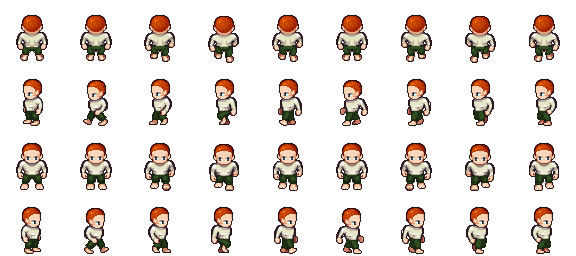
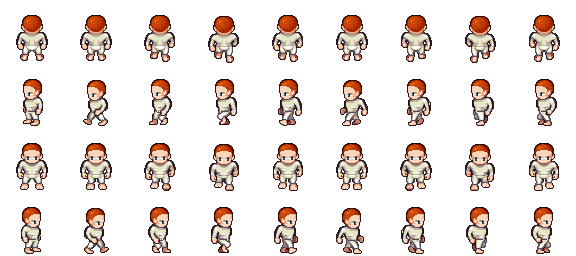
แก้กางเกงตัวละครสีเพี้ยนตอนนั่ง + เติมเครดิตฉบับเต็มของ walls/floors (#21)
ตรวจซ้ำแล้วพบว่า legs/formal/male/sit.png (กางเกงสูท) เป็นคนละปาเลตกับ walk.png/idle.png
ของโฟลเดอร์เดียวกัน (เขียวเข้ม vs น้ำตาลอ่อน — ความไม่สม่ำเสมอที่มีอยู่แล้วในไฟล์ต้นทาง
ของ repo ไม่ใช่บั๊กจาก compositing) ทำให้ตัวละครเปลี่ยนสีกางเกงกะทันหันตอนเข้าโซนกำลัง
ทำงาน (state ที่พบบ่อยที่สุด) เปลี่ยนไปใช้ legs/pants/male แทน ตรวจแล้วว่า walk/idle/sit
สีกากีตรงกันทั้งสามไฟล์ พร้อมอัปเดตตารางเครดิตให้ตรง

เพิ่มภาคผนวกใน CREDITS.md: เนื้อหาเต็มของ CREDITS-walls.txt / CREDITS-floors.txt
(รายชื่อผลงานต้นทาง ~20 รายการต่อไฟล์ที่ทั้งสองแพ็กรวมไว้) เผื่อไว้ตามธรรมเนียมของ
[LPC] Wooden Furniture ที่ผู้ดูแลคนเดียวกันระบุชัดว่า "All information in this file
must be included" แม้ walls/floors จะไม่ได้เขียนประโยคนี้ตรง ๆ ก็ตาม

diff --git a/office/assets/default/CREDITS.md b/office/assets/default/CREDITS.md
@@ -29,7 +29,7 @@
 | Body — teen | `body/bodies/teen/` | bluecarrot16, Evert, TheraHedwig, Benjamin K. Smith (BenCreating), MuffinElZangano, Durrani, Pierre Vigier (pvigier), Eliza Wyatt (ElizaWy), Matthew Krohn (makrohn), Johannes Sjölund (wulax), Stephen Challener (Redshrike) | OGA-BY 3.0 / CC-BY-SA 3.0 / GPL 3.0 |
 | Head — human/male | `head/heads/human/male/` | bluecarrot16, Benjamin K. Smith (BenCreating), Stephen Challener (Redshrike) | OGA-BY 3.0 / CC-BY-SA 3.0 / GPL 3.0 |
 | Head — human/male_small (ใช้กับตัว teen) | `head/heads/human/male_small/` | Eliza Wyatt (ElizaWy), Stephen Challener (Redshrike) | OGA-BY 3.0 / CC-BY |
-| Legs — formal/male (กางเกงสูท) | `legs/formal/male/` | bluecarrot16, JaidynReiman, Eliza Wyatt (ElizaWy), Johannes Sjölund (wulax), Stephen Challener (Redshrike) | OGA-BY 3.0 / CC-BY-SA 3.0 / GPL 3.0 |
+| Legs — pants/male (กางเกงขายาว) | `legs/pants/male/` | bluecarrot16, JaidynReiman, Eliza Wyatt (ElizaWy), Matthew Krohn (makrohn), Johannes Sjölund (wulax), Stephen Challener (Redshrike) | OGA-BY 3.0 / GPL 3.0 / CC-BY-SA 3.0 |
 | Torso — longsleeve2/male (เสื้อแขนยาว) | `torso/clothes/longsleeve/longsleeve2/male/` | Eliza Wyatt (ElizaWy), JaidynReiman, Stephen Challener (Redshrike), Johannes Sjölund (wulax) | OGA-BY 3.0 |
 | Hair — plain/adult | `hair/plain/adult/` | JaidynReiman, Manuel Riecke (MrBeast), Joe White | OGA-BY 3.0 / CC-BY-SA 3.0 / GPL 3.0 |
 | Hair — buzzcut/adult | `hair/buzzcut/adult/` | Eliza Wyatt (ElizaWy) | OGA-BY 3.0 |
@@ -44,8 +44,14 @@
 
 ### 1.2 คอมโบต่อโฟลเดอร์
 
-ทุกโฟลเดอร์ใช้ legs=formal/male, torso=longsleeve2/male ชุดเดียวกัน (แต่งตัวออฟฟิศ) ต่างกันที่ body/head/hair
-เพื่อให้หน้าตาไม่ซ้ำกันเกินไปโดยไม่ต้องเพิ่มจำนวนไฟล์เครดิต:
+ทุกโฟลเดอร์ใช้ legs=pants/male, torso=longsleeve2/male ชุดเดียวกัน (แต่งตัวออฟฟิศ) ต่างกันที่ body/head/hair
+เพื่อให้หน้าตาไม่ซ้ำกันเกินไปโดยไม่ต้องเพิ่มจำนวนไฟล์เครดิต
+
+หมายเหตุการเลือก legs: ลองใช้ `legs/formal/male/` (กางเกงสูทสีเขียวเข้ม) ก่อน แต่พบว่าไฟล์ `sit.png` ของโฟลเดอร์นั้น
+เป็นคนละสีปาเลตกับ `walk.png`/`idle.png` (สีน้ำตาลอ่อนแทนที่จะเป็นเขียวเข้ม — เป็นความไม่สม่ำเสมอที่มีอยู่แล้วใน
+ไฟล์ต้นทางของ repo ไม่ใช่บั๊กจากการ crop/composite ของเรา) ทำให้ตัวละครเปลี่ยนสีกางเกงกะทันหันตอนสลับท่า
+`sit` (โซนกำลังทำงาน ซึ่งเป็นสถานะที่เจอบ่อยที่สุด) จึงเปลี่ยนไปใช้ `legs/pants/male/` แทน ซึ่งตรวจแล้วว่า
+walk/idle/sit ทั้งสามไฟล์เป็นสีกากีเดียวกันสม่ำเสมอ:
 
 | โฟลเดอร์ | body | head | hair |
 |---|---|---|---|
@@ -90,3 +96,260 @@
 ผสม **CC0 / CC-BY / OGA-BY 3.0 / CC-BY-SA 3.0 / CC-BY-SA 4.0** — ไฟล์ผลลัพธ์ที่ประกอบจากเลเยอร์ CC-BY-SA
 (ตัวละครทุกโฟลเดอร์ และ `room/tileset.png`) ต้องแจกจ่ายต่อภายใต้ **CC-BY-SA** (เงื่อนไข share-alike ของ Creative
 Commons) — ไฟล์ path/แหล่งครบตามตารางข้างบน ใช้ต่อได้แต่ต้องคงเครดิตนี้ไว้
+
+---
+
+## 5. ภาคผนวก — เนื้อหาเต็มของ `CREDITS-walls.txt` / `CREDITS-floors.txt`
+
+`[LPC] Walls` และ `[LPC] Floors` (ผู้ดูแล bluecarrot16) เป็นแพ็กที่รวมผลงานหลายคน/หลายแพ็กย่อยไว้ในชีตเดียว —
+ไฟล์ crop ของเราหยิบมาแค่ 1 tile ต่อแพ็ก แต่ไม่รู้ว่า tile นั้นตกเป็นของสัดส่วนไหนใน "Based on:" ด้านล่าง
+(sheet ไม่แยกเครดิตรายพิกัด) จึงยกไฟล์เครดิตเต็มของทั้งสองแพ็กมาทั้งก้อนไว้ตรงนี้ (แพ็กพี่น้องของผู้ดูแลคนเดียวกัน
+คือ `[LPC] Wooden Furniture` ระบุไว้ชัดว่า "All information in this file must be included" — ยึดตามนั้นเผื่อไว้
+แม้ไฟล์ walls/floors จะไม่ได้เขียนประโยคนี้ตรง ๆ)
+
+### CREDITS-walls.txt
+
+```
+"[LPC] Walls" by bluecarrot16, Lanea Zimmerman (Sharm), Daniel Armstrong (HughSpectrum), William Thompson (William.Thompsonj), Hyptosis, Zabin, Daniel Cook, Guido Bos, SpiderDave, Cougarmint, Stephen Challener (Redshrike), Matthew Nash, Wolthera van Hövell tot Westerflier (TheraHedwig), Reemax, bleutailfly, NaRNeRZz, Sir Spummington, Casper Nilsson, KnoblePersona. CC-BY-SA 3.0.
+
+Based on:
+
+Liberated Pixel Cup (LPC) Base Assets (sprites & map tiles)
+Lanea Zimmerman (Sharm)
+CC-BY 3.0 / CC-BY-SA 3.0 / GPL 3.0
+http://opengameart.org/content/liberated-pixel-cup-lpc-base-assets-sprites-map-tiles
+
+Liberated Pixel Cup (LPC) Base Assets (sprites & map tiles)
+Daniel Armstrong (HughSpectrum)
+CC-BY-SA 3.0 / GPL 3.0
+http://opengameart.org/content/liberated-pixel-cup-lpc-base-assets-sprites-map-tiles#tiles/castlewalls.png
+http://opengameart.org/content/liberated-pixel-cup-lpc-base-assets-sprites-map-tiles#tiles/castlefloors.png
+
+[LPC] Arabic Elements
+Lanea Zimmerman (Sharm), commissioned by William Thompson (William.Thompsonj)
+CC-BY 4.0 / CC-BY 3.0 / GPL 3.0 / GPL 2.0 / OGA-BY 3.0
+https://opengameart.org/content/lpc-arabic-elements
+
+[LPC] Dungeon Elements
+Lanea Zimmerman (Sharm), commissioned by William Thompson (William.Thompsonj)
+CC-BY 4.0 / CC-BY 3.0 / GPL 3.0 / GPL 2.0 / OGA-BY 3.0
+https://opengameart.org/content/lpc-dungeon-elements
+
+[LPC] Adobe Building Set
+Lanea Zimmerman (Sharm), commissioned by William Thompson (William.Thompsonj)
+CC-BY 4.0 / CC-BY 3.0 / GPL 3.0 / GPL 2.0 / OGA-BY 3.0
+https://opengameart.org/content/lpc-adobe-building-set
+
+Castle Tiles for RPG's
+Hyptosis, Zabin, Daniel Cook
+CC-BY 3.0
+http://opengameart.org/content/castle-tiles-for-rpgs
+
+LPC: Interior Castle Tiles
+Lanea Zimmerman (Sharm)
+CC-BY 3.0 / CC-BY-SA 3.0 / GPL 3.0 / OGA-BY 3.0
+https://opengameart.org/content/lpc-interior-castle-tiles
+
+Lots of free 2d tiles and sprites by Hyptosis
+Hyptosis
+CC-BY 3.0
+https://opengameart.org/content/lots-of-free-2d-tiles-and-sprites-by-hyptosis
+
+LPC Compatible Ancient Roman Architecture
+Wolthera van Hövell tot Westerflier (TheraHedwig), Lanea Zimmerman (Sharm)
+CC-BY-SA 3.0 / GPL 3.0
+https://opengameart.org/content/lpc-compatible-ancient-roman-architecture
+
+Flowers, buildings and boxes; Interior wooden tiles; some old castle stuff
+Guido Bos
+CC-BY-SA 3.0 / GPL 3.0
+https://opengameart.org/content/flowers-buildings-and-boxes-interior-wooden-tiles-some-old-castle-stuff
+
+Wallpaper pattern tiles
+SpiderDave
+CC0
+https://opengameart.org/content/wallpaper-pattern-tiles
+
+Wallpaper pattern tiles
+SpiderDave
+CC0
+https://opengameart.org/content/wallpaper-pattern-tiles-0
+
+Patterns and Cursors
+Cougarmint
+CC0
+https://opengameart.org/content/patterns-and-cursors
+
+Patterns and Cursors II
+Cougarmint
+CC0
+https://opengameart.org/content/patterns-and-cursors-ii
+
+RPG Indoor Tileset: Expansion 1
+Redshrike
+CC-BY 3.0 / GPL 3.0 / GPL 2.0 / OGA-BY 3.0
+https://opengameart.org/content/rpg-indoor-tileset-expansion-1
+
+"RPG Enemies; Bathroom Tiles"
+Matthew Nash
+CC-BY-SA 3.0 / GPL 3.0
+https://opengameart.org/content/public-toilet-tileset
+
+Pixel Texture Pack
+jestan
+CC-BY 4.0 / CC-BY 3.0 / CC-BY-SA 4.0 / CC-BY-SA 3.0
+https://opengameart.org/content/pixel-texture-pack
+
+[LPC] House interior and decorations
+Reemax
+CC-BY-SA 3.0 / GPL 3.0 / GPL 2.0
+https://opengameart.org/content/lpc-house-interior-and-decorations
+
+walls and stuff
+bleutailfly
+CC-BY-SA 3.0
+https://opengameart.org/content/walls-and-stuff
+
+Tileset and Characters - Unfinished
+NaRNeRZz
+CC0
+https://opengameart.org/content/tileset-and-characters-unfinished
+
+Adventure Tileset (Unfinished)
+NaRNeRZz
+CC0
+https://opengameart.org/content/adventure-tileset-unfinished
+
+Interior Tiles
+Sir Spummington
+CC-BY-SA 3.0 / GPL 3.0
+https://opengameart.org/content/interior-tiles
+
+LPC C.Nilsson
+Casper Nilsson
+CC-BY-SA 3.0 / GPL 3.0
+https://opengameart.org/content/lpc-cnilsson
+
+Steampunk Level Tileset Mega Pack [Level Tileset] [16x16]
+KnoblePersona
+CC-BY 3.0
+https://opengameart.org/content/steampunk-level-tileset-mega-pack-level-tileset-16x16
+```
+
+### CREDITS-floors.txt
+
+```
+"[LPC] Floors" by bluecarrot16, Lanea Zimmerman (Sharm), William Thompson (William.Thompsonj), Hyptosis, SpiderDave, Cougarmint, Stephen Challener (Redshrike), Bonsaiheldin, Tyler Olsen (Roots), Jetrel, jestan, The Open Surge team (http://opensnc.sourceforge.net), Gaurav Munjal, Reemax, Silveira Neto, bleutailfly, Casper Nilsson, NaRNeRZz, Buch, keith karnage, Arthur Carvalho, Guilherme Vieira (n2liquid), Chris Hamons (maintainer). CC-BY-SA 4.0
+
+Based on:
+
+Liberated Pixel Cup (LPC) Base Assets (sprites & map tiles)
+Lanea Zimmerman (Sharm)
+CC-BY 3.0 / CC-BY-SA 3.0 / GPL 3.0
+http://opengameart.org/content/liberated-pixel-cup-lpc-base-assets-sprites-map-tiles
+
+[LPC] Arabic Elements
+Lanea Zimmerman (Sharm), commissioned by William Thompson (William.Thompsonj)
+CC-BY 4.0 / CC-BY 3.0 / GPL 3.0 / GPL 2.0 / OGA-BY 3.0
+https://opengameart.org/content/lpc-arabic-elements
+
+LPC: Interior Castle Tiles
+Lanea Zimmerman (Sharm)
+CC-BY 3.0 / CC-BY-SA 3.0 / GPL 3.0 / OGA-BY 3.0
+https://opengameart.org/content/lpc-interior-castle-tiles
+
+Lots of free 2d tiles and sprites by Hyptosis
+Hyptosis
+CC-BY 3.0
+https://opengameart.org/content/lots-of-free-2d-tiles-and-sprites-by-hyptosis
+
+Wallpaper pattern tiles
+SpiderDave
+CC0
+https://opengameart.org/content/wallpaper-pattern-tiles
+
+Wallpaper pattern tiles
+SpiderDave
+CC0
+https://opengameart.org/content/wallpaper-pattern-tiles-0
+
+Patterns and Cursors
+Cougarmint
+CC0
+https://opengameart.org/content/patterns-and-cursors
+
+Patterns and Cursors II
+Cougarmint
+CC0
+https://opengameart.org/content/patterns-and-cursors-ii
+
+RPG Indoor Tileset: Expansion 1
+Redshrike
+CC-BY 3.0 / GPL 3.0 / GPL 2.0 / OGA-BY 3.0
+https://opengameart.org/content/rpg-indoor-tileset-expansion-1
+
+Interior Tileset 16x16
+Bonsaiheldin
+CC-BY-SA 3.0
+https://opengameart.org/content/interior-tileset-16x16
+
+Stone Home Interior Tileset
+Tyler Olsen (Roots), Jetrel
+CC-BY-SA 3.0
+https://opengameart.org/content/stone-home-interior-tileset
+
+Pixel Texture Pack
+jestan
+CC-BY 4.0 / CC-BY 3.0 / CC-BY-SA 4.0 / CC-BY-SA 3.0
+https://opengameart.org/content/pixel-texture-pack
+
+32x32 (and 16x16) RPG Tiles--Forest and some Interior Tiles
+Stephen Challener (Redshrike) and the Open Surge team (http://opensnc.sourceforge.net) commissioned by Gaurav Munjal
+CC-BY 3.0
+https://opengameart.org/content/32x32-and-16x16-rpg-tiles-forest-and-some-interior-tiles
+
+[LPC] House interior and decorations
+Reemax
+CC-BY-SA 3.0 / GPL 3.0 / GPL 2.0
+https://opengameart.org/content/lpc-house-interior-and-decorations
+
+OpenPixels:Characters & Tilesets -Silveira Neto
+Silveira Neto
+CC-BY-SA 3.0
+https://opengameart.org/content/openpixelscharacters-tilesets-silveira-neto
+
+walls and stuff
+bleutailfly
+CC-BY-SA 3.0
+https://opengameart.org/content/walls-and-stuff
+
+LPC C.Nilsson
+Casper Nilsson
+CC-BY-SA 3.0 / GPL 3.0
+https://opengameart.org/content/lpc-cnilsson
+
+Adventure Tileset (Unfinished)
+NaRNeRZz
+CC0
+https://opengameart.org/content/adventure-tileset-unfinished
+
+Outdoor 32x32 tileset
+Buch
+CC0
+https://opengameart.org/content/outdoor-32x32-tileset
+
+Medieval town
+keith karnage
+CC-BY 3.0
+https://opengameart.org/content/medieval-town-0
+
+Exterior 32x32 Town tileset
+Arthur Carvalho, copyright Guilherme Vieira (n2liquid)
+CC-BY-SA 4.0
+https://opengameart.org/content/town-tileset-exterior-32x32
+
+Dungeon Crawl 32x32 tiles
+Chris Hamons (maintainer)
+CC0
+https://opengameart.org/content/dungeon-crawl-32x32-tiles
+```
